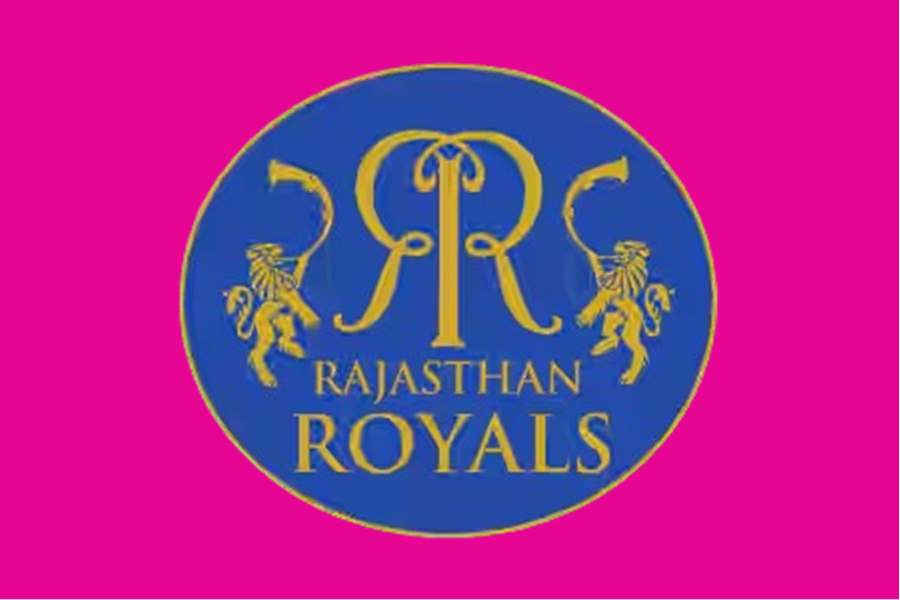
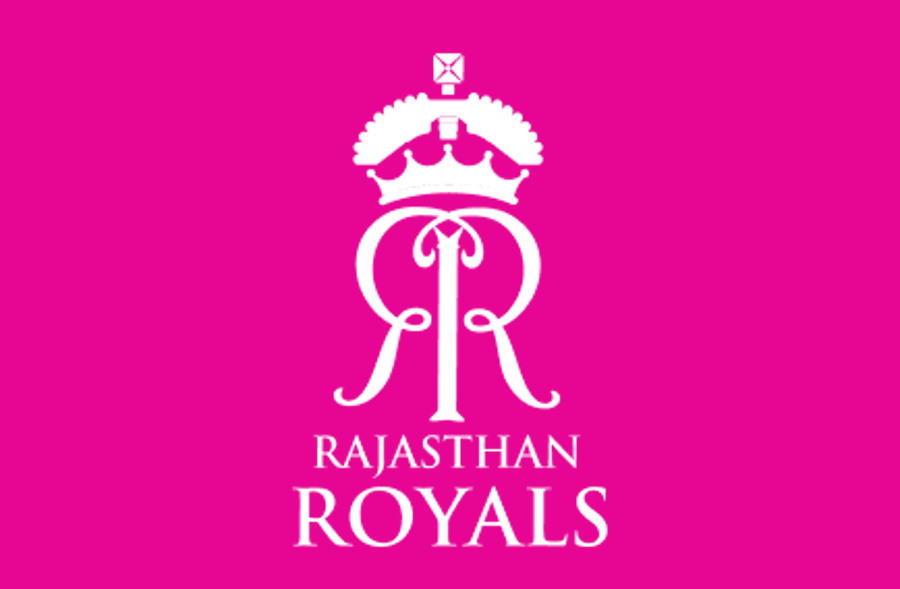
Updated many

diff --git a/IPL/templates/live.html b/IPL/templates/live.html
@@ -238,9 +238,9 @@
           <div class="live_4 border rounded_10 bg-white mt-3 pt-3 pb-3">
               <div class="container1">
             <div class="label-container">
-                <img src="{{ url_for('static', filename= 'images/squad_logos/'~dt1[4]~'.png') }}" width="40px" height="40px">
+                <img src="{{ url_for('static', filename= 'images/squad_logos/'~(dt1[4]~('1' if dt1[4] == 'RR' else ''))~'.png') }}" width="40px" height="40px">
                 <span><b>Win Probability %</b></span>
-                <img src="{{ url_for('static', filename= 'images/squad_logos/'~dt1[5]~'.png') }}" width="40px" height="40px">
+                <img src="{{ url_for('static', filename= 'images/squad_logos/'~(dt1[5]~('1' if dt1[5] == 'RR' else ''))~'.png') }}" width="40px" height="40px">
             </div>
             <div class="progress-bar">
                 <div class="l-bar" style="--c: {{ clr[dt1[4]] }}; width: {{ (dt3['team_win_probability'][dt1[4]] | float) | round(0) | int }}%"></div>
@@ -268,7 +268,7 @@
                   <div class="potm-details">
                       <div class="potm-name"><a href="{{ url_for('main.squad_details', team=team, name=name) }}">{{ name }}</a></div>
                       <div class="potm-team fw-bold">
-                          <img src="/static/images/squad_logos/{{ team }}.png" alt="Team Logo" class="team-logo">
+                          <img src="/static/images/squad_logos/{{ team }}{% if team == 'RR' %}1{% endif %}.png" alt="Team Logo" class="team-logo">
                           {{ fn[team] }}
                       </div>
                       <div class="potm-stats">
@@ -301,7 +301,7 @@
                   <div class="potm-details">
                       <div class="potm-name"><a href="{{ url_for('main.squad_details', team=team, name=name) }}">{{ name }}</a></div>
                       <div class="potm-team fw-bold">
-                          <img src="/static/images/squad_logos/{{ team }}.png" alt="Team Logo" class="team-logo">
+                          <img src="/static/images/squad_logos/{{ team }}{% if team == 'RR' %}1{% endif %}.png" alt="Team Logo" class="team-logo">
                           {{ fn[team] }}
                       </div>
                   </div>

diff --git a/IPL/templates/scorecard.html b/IPL/templates/scorecard.html
@@ -196,7 +196,7 @@
                   <div class="potm-details">
                       <div class="potm-name"><a href="{{ url_for('main.squad_details', team=team, name=name) }}">{{ name }}</a></div>
                       <div class="potm-team fw-bold">
-                          <img src="/static/images/squad_logos/{{ team }}.png" alt="Team Logo" class="team-logo">
+                          <img src="/static/images/squad_logos/{{ team }}{% if team == 'RR' %}1{% endif %}.png" alt="Team Logo" class="team-logo">
                           {{ fn[team] }}
                       </div>
                       <div class="potm-stats">

diff --git a/IPL/templates/teams.html b/IPL/templates/teams.html
@@ -296,7 +296,7 @@ body::-webkit-scrollbar-thumb:hover { background-color: #f7b733; }
             <!-- BACK FACE: trophy and champion years, with all spacing and alignment -->
             <div class="card-face card-back">
               <div class="card-content">
-                <img src="/static/images/trophy.svg" alt="Trophy" />
+                <img src="/static/images/trophy.png" alt="Trophy" />
               </div>
               <div class="card-footer">
                 <div>

diff --git a/IPL/main.py b/IPL/main.py
@@ -85,7 +85,8 @@ clr = {'CSK':{'c1':'#ffff3c', 'c2':'#fdcd05', 'c3':'#00adef'},  #fdcd05 f15c19,
         'PBKS':{'c1':'#ed1d24', 'c2':'#f2d1a0', 'c3':'#4960b6'},
         'RR':{'c1':'#ff69b4', 'c2':'#074ea2', 'c3':'#cba92b'},
         'RCB':{'c1':'#2b2a29', 'c2':'#444444', 'c3':'#ec1c24'},
-        'SRH':{'c1':'#f26522', 'c2':'#ed1a37', 'c3':'#221f21'}}
+        'SRH':{'c1':'#f26522', 'c2':'#ed1a37', 'c3':'#221f21'},
+        'TBA':{'c1':'#ffffff', 'c2':'#ffffff', 'c3':'#ffffff'}}
 
 ptclr = {'CSK':'#f9cd05',
         'DC':'#282968',
